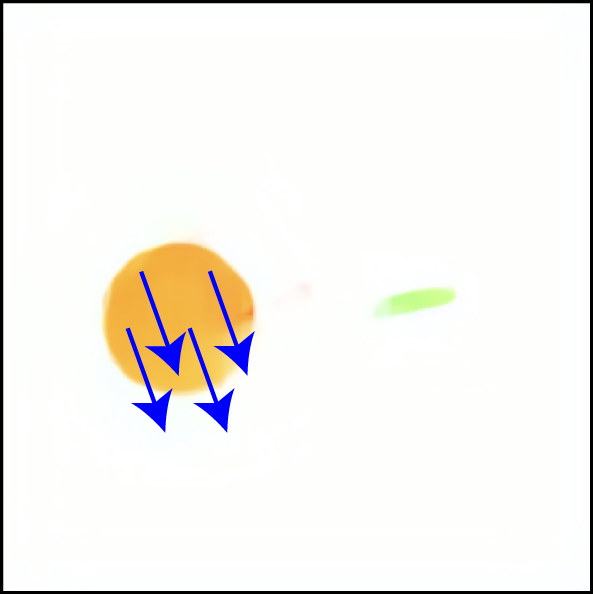
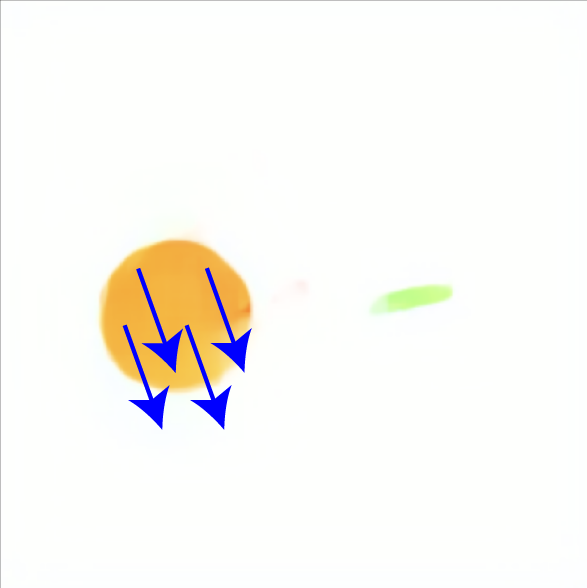
blog finbalzied

diff --git a/blog/physical-object-understanding.html b/blog/physical-object-understanding.html
@@ -82,6 +82,7 @@
         font-weight: 600;
         color: var(--ink-soft, #555);
         text-align: center;
+        width: 100%;
       }
       .gallery__controls {
         display: flex;
@@ -152,13 +153,17 @@
         38%, 100% { opacity: 0; }
       }
       .seed-label {
-        display: inline-block;
         position: relative;
+        display: block;
+        width: 100%;
         height: 1.2em;
+        text-align: center;
       }
       .seed-label span {
         position: absolute;
         left: 0;
+        right: 0;
+        text-align: center;
         white-space: nowrap;
         opacity: 0;
       }
@@ -616,7 +621,7 @@
                     <img src="../assets/objects-paper/seqgen/horse_flow_s1.png" alt="Horse — flow seed 1" />
                     <img src="../assets/objects-paper/seqgen/horse_flow_s2.png" alt="Horse — flow seed 2" />
                   </div>
-                  <span class="gallery__cell__label">Generated flow <span class="seed-label"><span>seed 0</span><span>seed 1</span><span>seed 2</span></span></span>
+                  <span class="gallery__cell__label seed-label"><span>Generated flow (seed 0)</span><span>Generated flow (seed 1)</span><span>Generated flow (seed 2)</span></span>
                 </div>
                 <div class="gallery__cell">
                   <div class="seed-stack">
@@ -624,7 +629,7 @@
                     <img src="../assets/objects-paper/seqgen/horse_rgb_s1.png" alt="Horse — RGB seed 1" />
                     <img src="../assets/objects-paper/seqgen/horse_rgb_s2.png" alt="Horse — RGB seed 2" />
                   </div>
-                  <span class="gallery__cell__label">Generated RGB <span class="seed-label"><span>seed 0</span><span>seed 1</span><span>seed 2</span></span></span>
+                  <span class="gallery__cell__label seed-label"><span>Generated RGB (seed 0)</span><span>Generated RGB (seed 1)</span><span>Generated RGB (seed 2)</span></span>
                 </div>
               </div>
               <div class="gallery__slide gallery__slide--3col">
@@ -638,7 +643,7 @@
                     <img src="../assets/objects-paper/seqgen/robot_flow_s1.png" alt="Robot arm — flow seed 1" />
                     <img src="../assets/objects-paper/seqgen/robot_flow_s2.png" alt="Robot arm — flow seed 2" />
                   </div>
-                  <span class="gallery__cell__label">Generated flow <span class="seed-label"><span>seed 0</span><span>seed 1</span><span>seed 2</span></span></span>
+                  <span class="gallery__cell__label seed-label"><span>Generated flow (seed 0)</span><span>Generated flow (seed 1)</span><span>Generated flow (seed 2)</span></span>
                 </div>
                 <div class="gallery__cell">
                   <div class="seed-stack">
@@ -646,7 +651,7 @@
                     <img src="../assets/objects-paper/seqgen/robot_rgb_s1.png" alt="Robot arm — RGB seed 1" />
                     <img src="../assets/objects-paper/seqgen/robot_rgb_s2.png" alt="Robot arm — RGB seed 2" />
                   </div>
-                  <span class="gallery__cell__label">Generated RGB <span class="seed-label"><span>seed 0</span><span>seed 1</span><span>seed 2</span></span></span>
+                  <span class="gallery__cell__label seed-label"><span>Generated RGB (seed 0)</span><span>Generated RGB (seed 1)</span><span>Generated RGB (seed 2)</span></span>
                 </div>
               </div>
             </div>
@@ -679,7 +684,7 @@
                     <img src="../assets/objects-paper/seqgen/bear_flow_s1.png" alt="Bear — flow seed 1" />
                     <img src="../assets/objects-paper/seqgen/bear_flow_s2.png" alt="Bear — flow seed 2" />
                   </div>
-                  <span class="gallery__cell__label">Generated flow <span class="seed-label"><span>seed 0</span><span>seed 1</span><span>seed 2</span></span></span>
+                  <span class="gallery__cell__label seed-label"><span>Generated flow (seed 0)</span><span>Generated flow (seed 1)</span><span>Generated flow (seed 2)</span></span>
                 </div>
                 <div class="gallery__cell">
                   <div class="seed-stack">
@@ -687,7 +692,7 @@
                     <img src="../assets/objects-paper/seqgen/bear_rgb_s1.png" alt="Bear — RGB seed 1" />
                     <img src="../assets/objects-paper/seqgen/bear_rgb_s2.png" alt="Bear — RGB seed 2" />
                   </div>
-                  <span class="gallery__cell__label">Generated RGB <span class="seed-label"><span>seed 0</span><span>seed 1</span><span>seed 2</span></span></span>
+                  <span class="gallery__cell__label seed-label"><span>Generated RGB (seed 0)</span><span>Generated RGB (seed 1)</span><span>Generated RGB (seed 2)</span></span>
                 </div>
               </div>
             </div>
